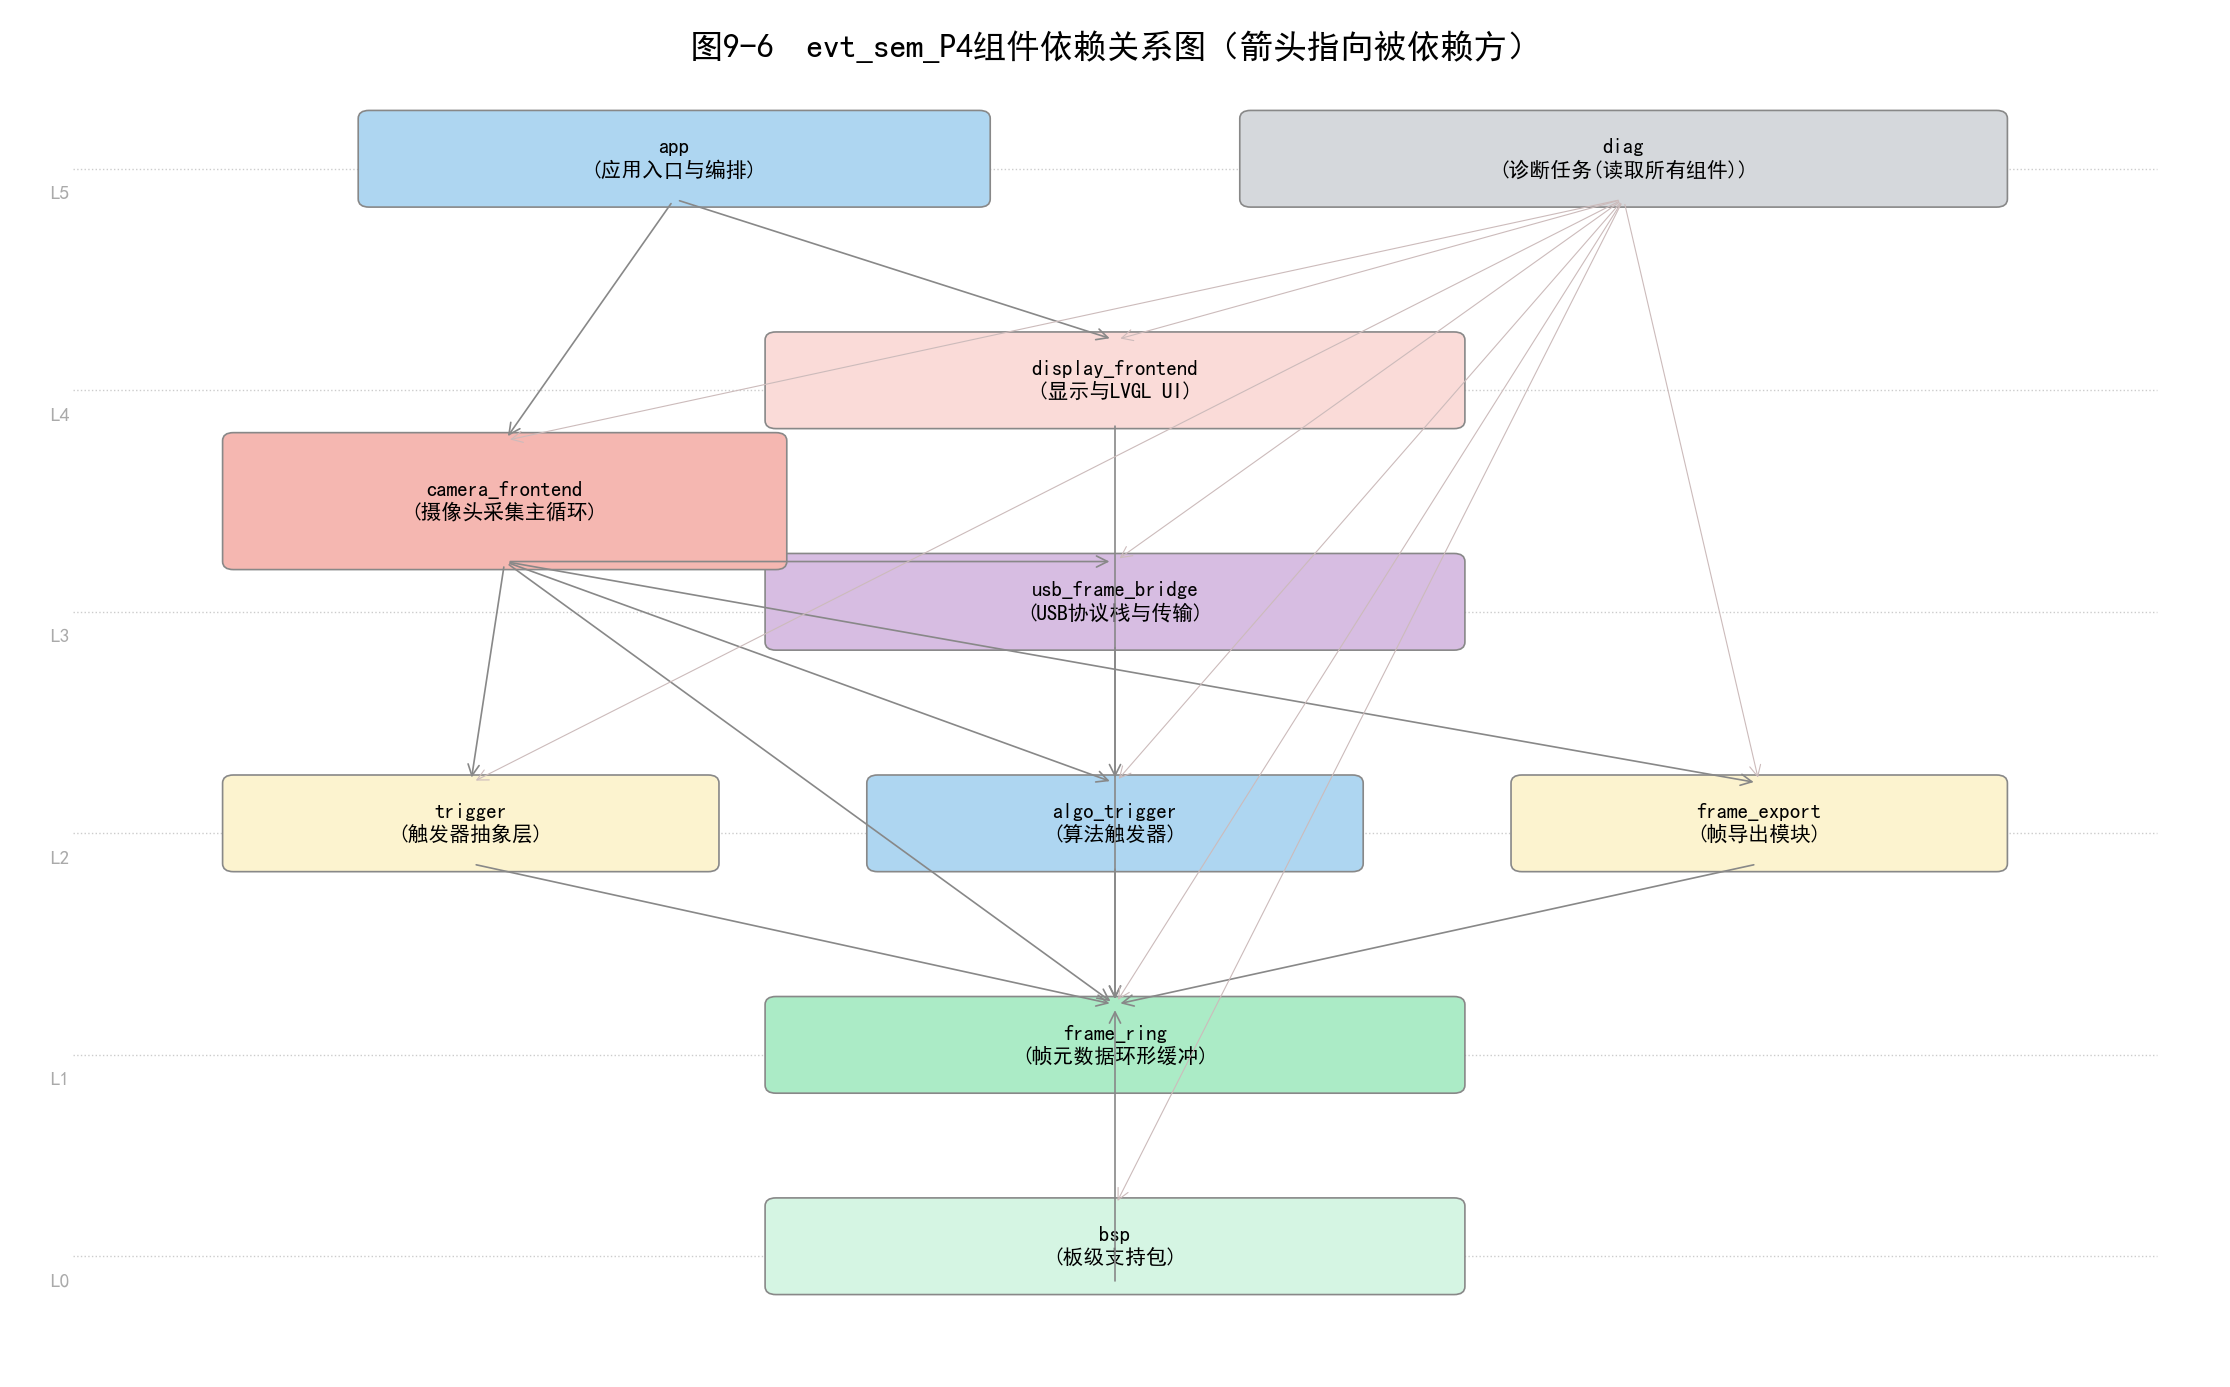
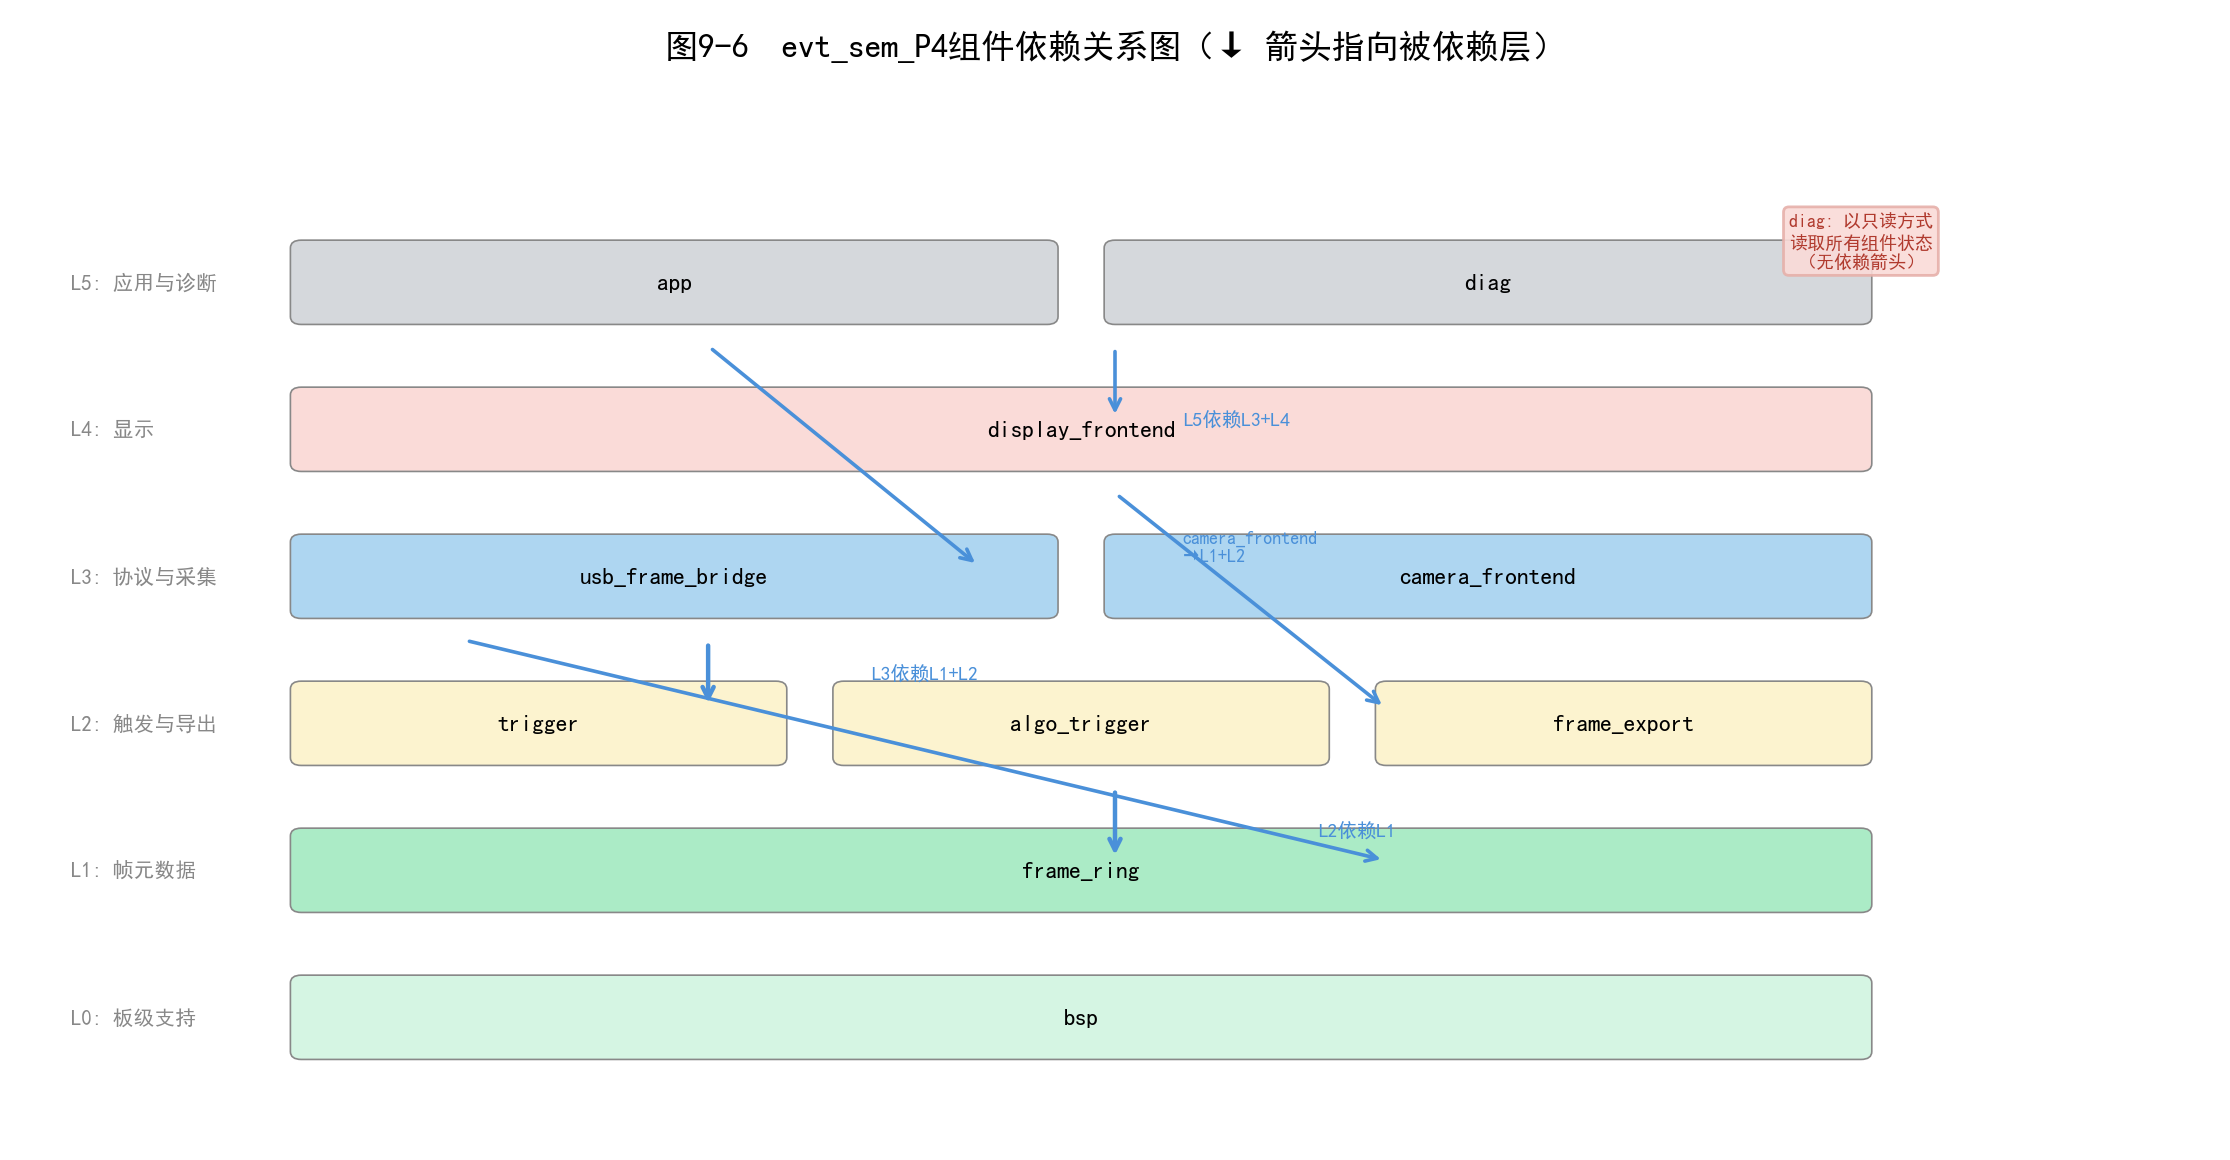
图9-6重构：去除diag蛛网箭头，改用6层清晰架构+粗箭头表示层间依赖

diff --git a/tools/generate_figures.py b/tools/generate_figures.py
@@ -326,86 +326,74 @@ def fig_9_5():
 # 图9-6 组件依赖图 — 重修分层布局
 # ============================================================
 def fig_9_6():
-    fig, ax = plt.subplots(figsize=(14, 8.5))
-    ax.set_xlim(0, 16); ax.set_ylim(0, 13); ax.axis("off")
-    ax.set_title("图9-6  evt_sem_P4组件依赖关系图（箭头指向被依赖方）", fontsize=12, weight="bold", y=0.98)
+    """组件依赖关系 — 简化版：层间粗箭头 + 层内并列，去除蛛网线"""
+    fig, ax = plt.subplots(figsize=(14, 7))
+    ax.set_xlim(0, 16); ax.set_ylim(0, 11); ax.axis("off")
+    ax.set_title("图9-6  evt_sem_P4组件依赖关系图（↓ 箭头指向被依赖层）", fontsize=12, weight="bold", y=0.98)
 
-    # 分层坐标 (layer, y)
-    layers = {
-        "L0": 1.0,   # bsp
-        "L1": 3.0,   # frame_ring
-        "L2": 5.2,   # trigger, algo_trigger, frame_export
-        "L3": 7.4,   # usb_frame_bridge, camera_frontend
-        "L4": 9.6,   # display_frontend
-        "L5": 11.8,   # app, diag
-    }
-
-    # 画层级背景线
-    for name, ly in layers.items():
-        ax.axhline(y=ly, xmin=0.02, xmax=0.98, color="#CCCCCC", lw=0.5, linestyle="dotted", zorder=0)
-        ax.text(0.15, ly-0.3, name, fontsize=7, color="#AAAAAA")
-
-    # 各层组件 (name, desc, x, y, w, h, color)
-    comps = [
-        # L0
-        ("bsp", "板级支持包", 5.5, layers["L0"]-0.3, 5, 0.8, "#D5F5E3"),
-        # L1
-        ("frame_ring", "帧元数据环形缓冲", 5.5, layers["L1"]-0.3, 5, 0.8, "#ABEBC6"),
-        # L2
-        ("trigger", "触发器抽象层", 1.5, layers["L2"]-0.3, 3.5, 0.8, "#FCF3CF"),
-        ("algo_trigger", "算法触发器", 6.25, layers["L2"]-0.3, 3.5, 0.8, "#AED6F1"),
-        ("frame_export", "帧导出模块", 11.0, layers["L2"]-0.3, 3.5, 0.8, "#FCF3CF"),
-        # L3
-        ("usb_frame_bridge", "USB协议栈与传输", 5.5, layers["L3"]-0.3, 5, 0.8, "#D7BDE2"),
-        ("camera_frontend", "摄像头采集主循环", 1.5, layers["L3"]+0.5, 4, 1.2, "#F5B7B1"),
-        # L4
-        ("display_frontend", "显示与LVGL UI", 5.5, layers["L4"]-0.3, 5, 0.8, "#FADBD8"),
-        # L5
-        ("app", "应用入口与编排", 2.5, layers["L5"]-0.3, 4.5, 0.8, "#AED6F1"),
-        ("diag", "诊断任务(读取所有组件)", 9.0, layers["L5"]-0.3, 5.5, 0.8, "#D5D8DC"),
+    # 6层定义
+    layers = [
+        ("L0: 板级支持", 0.8, ["bsp"], "#D5F5E3"),
+        ("L1: 帧元数据", 2.3, ["frame_ring"], "#ABEBC6"),
+        ("L2: 触发与导出", 3.8, ["trigger", "algo_trigger", "frame_export"], "#FCF3CF"),
+        ("L3: 协议与采集", 5.3, ["usb_frame_bridge", "camera_frontend"], "#AED6F1"),
+        ("L4: 显示", 6.8, ["display_frontend"], "#FADBD8"),
+        ("L5: 应用与诊断", 8.3, ["app", "diag"], "#D5D8DC"),
     ]
 
-    # 组件位置映射
-    cpos = {}  # name -> (cx, top, bottom)
-    for name, desc, x, y, w, h, color in comps:
-        box(ax, x, y, w, h, f"{name}\n({desc})", color=color, fontsize=7.5, bold=("app" in name or "bsp" in name))
-        cpos[name] = (x + w/2, y+h, y)  # cx, top, bottom
+    layer_centers = []  # (label, y_mid, x_range)
 
-    # 画依赖箭头 (从上层指向下层，从调用中点向下)
-    def dep_arrow(caller, callee, lw=0.6):
-        if caller in cpos and callee in cpos:
-            cx, _, cbot = cpos[caller]
-            _, ctop, _ = cpos[callee]
-            arrow(ax, cx, cbot, cpos[callee][0], ctop, "#888888", lw)
+    for label, y, comps, color in layers:
+        n = len(comps)
+        # 组件框均匀分布
+        total_w = 12
+        box_w = total_w / n - 0.5
+        box_h = 0.7
+        for i, cname in enumerate(comps):
+            x = 2.0 + i * (total_w / n)
+            box(ax, x, y, box_w, box_h, cname, color=color, fontsize=8.5, bold=(cname in ["app", "camera_frontend"]))
+        # 层标签
+        ax.text(0.3, y + box_h/2, label, fontsize=7.5, color="#888", va="center")
+        layer_centers.append((y + box_h/2, y))
 
-    dep_arrow("bsp", "frame_ring")  # bsp被frame_ring依赖... wait
-    # 实际上 frame_ring 不依赖 bsp，但 bsp 是先决条件。让我画 frame_ring 依赖链路。
+    # 层间依赖关系 — 用简洁的垂直粗箭头标注
+    # 规则：上层依赖紧邻下层（大多数情况），特殊情况单独标注
+    dep_annotations = [
+        # (from_layer_idx, to_layer_idx, note)
+        (1, 0, ""),   # L1→L0(frame_ring依赖bsp? 实际不依赖，但bsp在L0)
+        # 实际上 frame_ring 不依赖 bsp，所以 L1→L0 无依赖
+        (2, 1, "trigger/algo_trigger\nframe_export\n依赖 frame_ring"),  # L2→L1
+        (3, 1, "usb_frame_bridge\n依赖 frame_ring"),  # L3→L1
+        (3, 2, "camera_frontend 依赖\nL2全部+L1"),  # L3→L2
+        (4, 2, "display_frontend\n依赖 algo_trigger"),  # L4→L2
+        (5, 3, "app 依赖\ncamera_frontend"),  # L5→L3
+        (5, 4, "app 依赖\ndisplay_frontend"),  # L5→L4
+    ]
 
-    # 正确的依赖关系：
-    # L1 ← L0: 无（bsp无依赖）
-    # L2 ← L1: trigger, algo_trigger, frame_export 都依赖 frame_ring
-    dep_arrow("trigger", "frame_ring")
-    dep_arrow("algo_trigger", "frame_ring")
-    dep_arrow("frame_export", "frame_ring")
+    # 画主要的层间依赖箭头（粗线）
+    # L2→L1
+    arrow(ax, 8, 3.5, 8, 2.75, "#4A90D9", 1.6)
+    # L3→L2
+    arrow(ax, 5, 5.0, 5, 4.3, "#4A90D9", 1.6)
+    # L3→L1 (usb_frame_bridge → frame_ring)
+    arrow(ax, 3.2, 5.0, 10, 2.75, "#4A90D9", 1.3)
+    # L4→L2
+    arrow(ax, 8, 6.5, 10, 4.3, "#4A90D9", 1.3)
+    # L5→L3
+    arrow(ax, 5, 8.0, 7, 5.75, "#4A90D9", 1.3)
+    # L5→L4
+    arrow(ax, 8, 8.0, 8, 7.25, "#4A90D9", 1.3)
 
-    # L3 ← L1: usb_frame_bridge 依赖 frame_ring
-    dep_arrow("usb_frame_bridge", "frame_ring")
+    # 依赖文字标注
+    ax.text(9.5, 3.0, "L2依赖L1", fontsize=7, color="#4A90D9", style="italic")
+    ax.text(6.2, 4.6, "L3依赖L1+L2", fontsize=7, color="#4A90D9", style="italic")
+    ax.text(8.5, 5.8, "camera_frontend\n→L1+L2", fontsize=6.5, color="#4A90D9", style="italic")
+    ax.text(8.5, 7.2, "L5依赖L3+L4", fontsize=7, color="#4A90D9", style="italic")
 
-    # L3 camera_frontend 依赖很多
-    for callee in ["frame_ring", "trigger", "algo_trigger", "frame_export", "usb_frame_bridge"]:
-        dep_arrow("camera_frontend", callee)
-
-    # L4 ← L2: display_frontend 依赖 algo_trigger
-    dep_arrow("display_frontend", "algo_trigger")
-
-    # L5 app 依赖 camera_frontend, display_frontend, ...
-    for callee in ["camera_frontend", "display_frontend"]:
-        dep_arrow("app", callee)
-
-    # diag 读取所有组件
-    for callee in ["bsp", "frame_ring", "trigger", "algo_trigger", "frame_export",
-                    "usb_frame_bridge", "camera_frontend", "display_frontend"]:
-        arrow(ax, cpos["diag"][0], cpos["diag"][2], cpos[callee][0], cpos[callee][1], "#CCBBBB", 0.4)
+    # diag 特殊标注（不画8条线）
+    ax.text(13.5, 8.8, "diag: 以只读方式\n读取所有组件状态\n（无依赖箭头）",
+            fontsize=6.5, color="#B03A2E", ha="center", style="italic",
+            bbox=dict(boxstyle="round,pad=0.3", facecolor="#FADBD8", edgecolor="#E6B0AA", alpha=0.9))
 
     save(fig, "fig_9_6.png")
 
